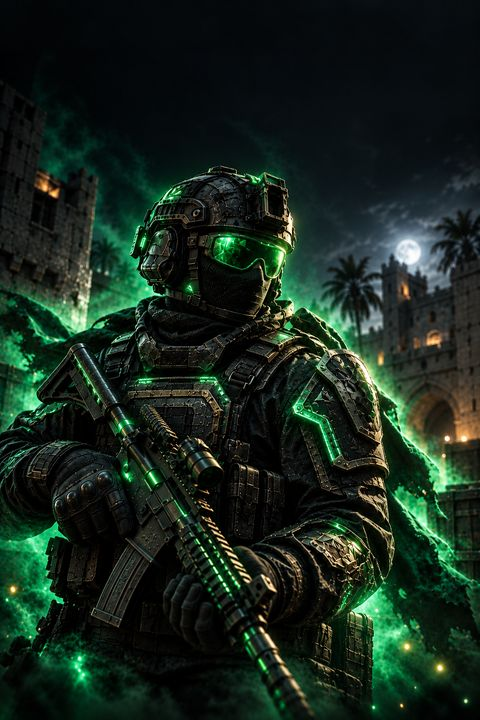
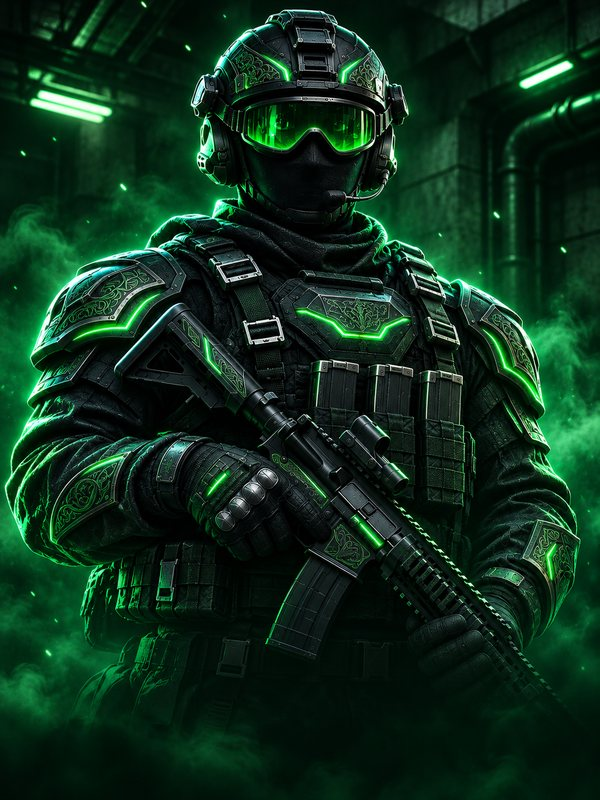
Новые карточки ELITE и LEGEND
Claude-Session: https://claude.ai/code/session_012xAbwNHTjhA8EXRrYfLwFY

diff --git a/index.html b/index.html
@@ -2582,7 +2582,7 @@ function spinWheel(){if(!logged){toast("Сначала войди через Ste
     $("whRes").classList.add("pop");toast(`Выпало: ${WSEG[i][1]} ${WSEG[i][2]}${again?". Привилегия даёт ещё одну попытку":""}`)})}
 
 // ---------- магазин ----------
-const TIERIMG={"VIP": "img/tier/vip.jpg?v=6c7e2367", "PREMIUM": "img/tier/premium.jpg?v=aa901830", "LEGEND": "img/tier/legend.jpg?v=141989e6", "ELITE": "img/tier/elite.jpg?v=b7fe4093", "TITAN": "img/tier/titan.jpg?v=e1840024", "GOD": "img/tier/god.jpg?v=fc01f1d2"};
+const TIERIMG={"VIP": "img/tier/vip.jpg?v=6c7e2367", "PREMIUM": "img/tier/premium.jpg?v=aa901830", "LEGEND": "img/tier/legend.jpg?v=58f3fea4", "ELITE": "img/tier/elite.jpg?v=9ac26fd5", "TITAN": "img/tier/titan.jpg?v=e1840024", "GOD": "img/tier/god.jpg?v=fc01f1d2"};
 const CREST={
  VIP:'<path d="M23 6l4 9 10 1-7 7 2 10-9-5-9 5 2-10-7-7 10-1z"/>',
  PREMIUM:'<path d="M23 4l16 6v11c0 10-7 17-16 21C14 38 7 31 7 21V10z"/><path d="M23 13l3 6 6 1-4 4 1 6-6-3-6 3 1-6-4-4 6-1z"/>',
